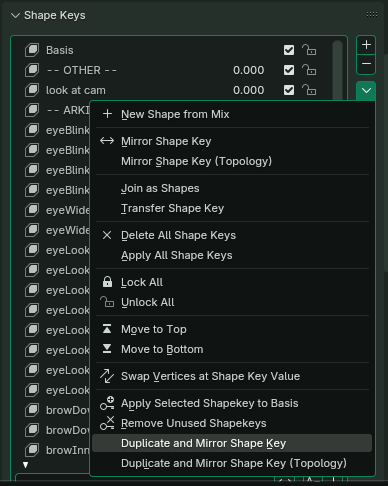
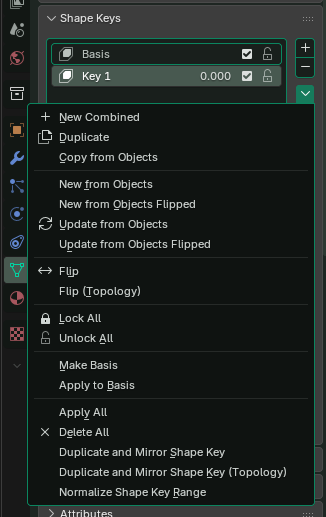
Now works in sculpt mode
Forgot sculpt mode was a thing, oops

Changed region(s): [[0.0, 0.0, 1.0, 1.0]]

diff --git a/Addon/warning.py b/Addon/warning.py
@@ -1,4 +1,4 @@
-"""Pulsing viewport warning shown while editing a non-basis shape key."""
+"""Pulsing viewport warning shown while editing/sculpting a non-basis shape key."""
 
 import bpy
 import blf
@@ -7,6 +7,10 @@ import math
 
 _draw_handle = None
 _timer_running = False
+
+# Modes in which the active shape key can be modified and is therefore
+# worth warning about.
+_WARN_MODES = {'EDIT', 'SCULPT'}
 
 _ANCHOR_ITEMS = [
     ('TOP_LEFT',     "Top Left",     ""),
@@ -33,7 +37,9 @@ def warning_active(context, prefs):
     if prefs is None or not prefs.enabled:
         return False
     obj = context.active_object
-    if not obj or obj.type != 'MESH' or obj.mode != 'EDIT':
+    if not obj or obj.type != 'MESH':
+        return False
+    if obj.mode not in _WARN_MODES:
         return False
     if not obj.data.shape_keys:
         return False
@@ -122,7 +128,10 @@ class ShapeKeyWarningPreferences(bpy.types.AddonPreferences):
 
     enabled: bpy.props.BoolProperty(
         name="Enable Edit Warning",
-        description="Show a pulsing warning while editing a non-basis shape key",
+        description=(
+            "Show a pulsing warning while editing or sculpting a "
+            "non-basis shape key"
+        ),
         default=True,
     )
     pos_x: bpy.props.FloatProperty(

diff --git a/README.md b/README.md
@@ -6,7 +6,9 @@ Duplicate and mirror a shape key with a single click (Technically 2). It also su
 
 ## Usage
 Option can be found in the "Shape Key Specials" dropdown in the Shape Keys tab.
-Select the shape key you wish to duplicate and mirror, click on "Duplicate and Mirror Shape Key" or Duplicate and Mirror Shape Key (Topology)". The generated Shape key should appear under the selected one.  
+Select the shape key you wish to duplicate and mirror, click on "Duplicate and Mirror Shape Key" or Duplicate and Mirror Shape Key (Topology)". The generated Shape key should appear under the selected one.
+
+Select a shape key you wish to normalize, click on "Normalize Shape Key Range". The shape key range will reset to 0-1 while keeping the deformation of the previous range. 
 
 ![image](https://github.com/user-attachments/assets/97e3f856-6812-4684-8ce2-d32f426663c7)
 
